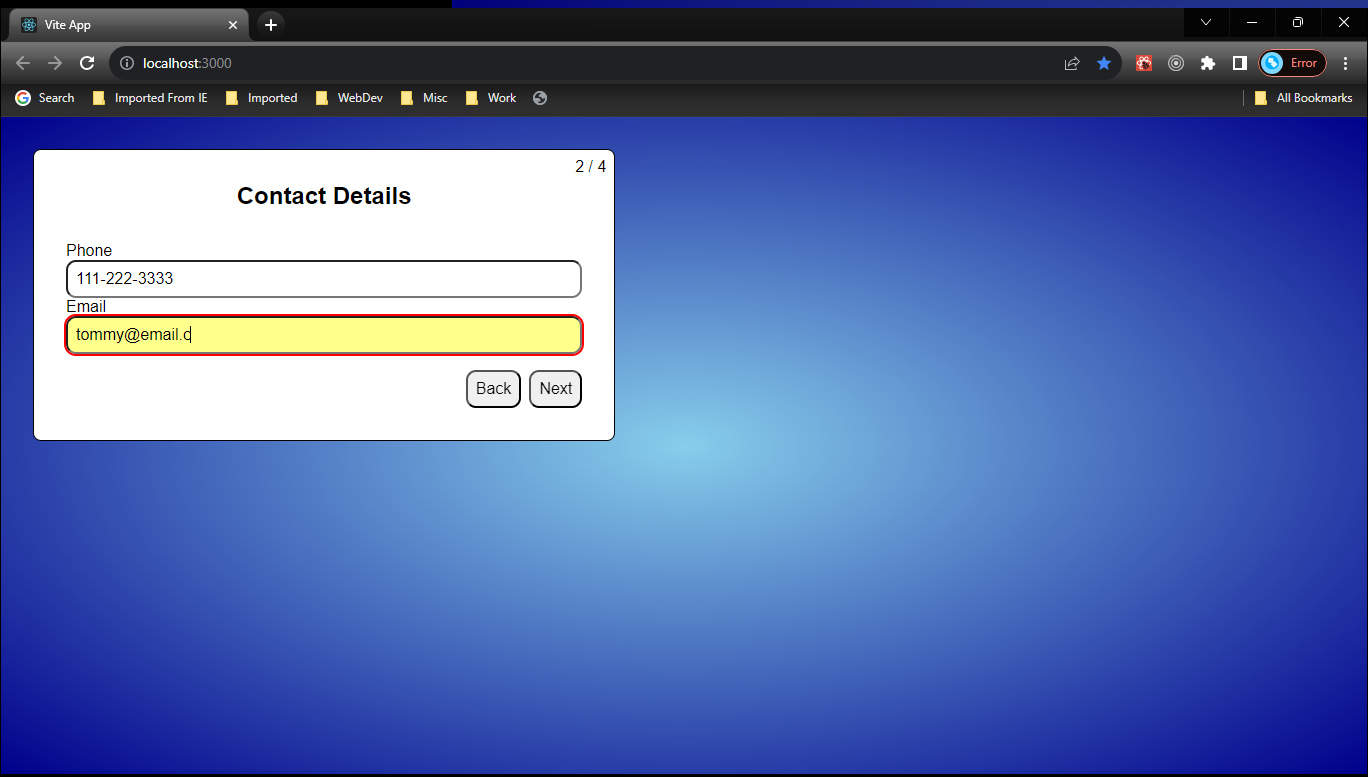
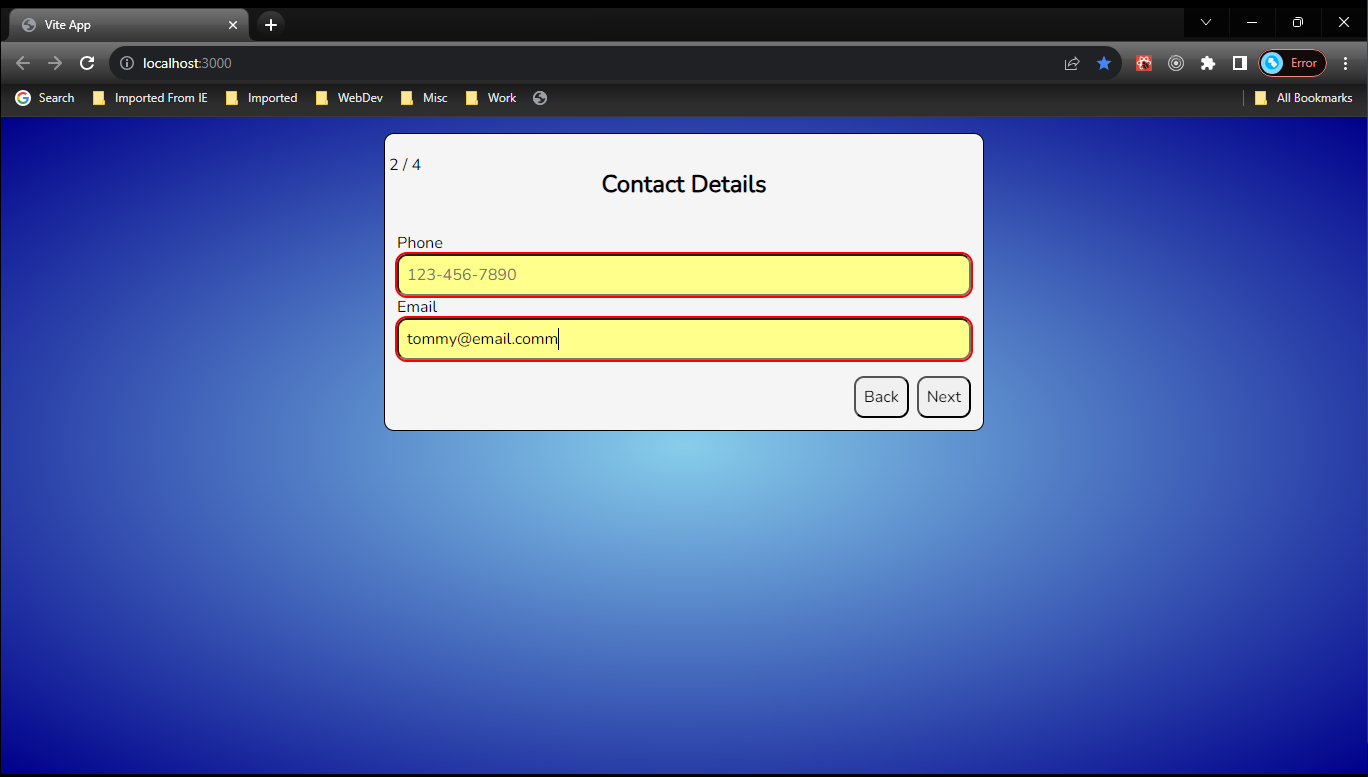
Make improvements to the address and form-wrapper

Changed region(s): [[0.0, 0.1544, 0.7368, 0.5869], [0.3377, 0.0, 1.0, 0.0309], [0.0, 0.0, 0.0307, 0.0618]]

diff --git a/src/AddressForm.tsx b/src/AddressForm.tsx
@@ -40,13 +40,66 @@ export default function AddressForm({
         onChange={e => updateFields({ city: e.target.value })}
       />
       <label>State</label>
-      <input
+      <select
         required
-        type="text"
         value={state}
         onChange={e => updateFields({ state: e.target.value })}
-      />
-      <label>Zip</label>
+      >
+        <option value="AL">Alabama</option>
+        <option value="AK">Alaska</option>
+        <option value="AZ">Arizona</option>
+        <option value="AR">Arkansas</option>
+        <option value="CA">California</option>
+        <option value="CO">Colorado</option>
+        <option value="CT">Connecticut</option>
+        <option value="DE">Delaware</option>
+        <option value="DC">District Of Columbia</option>
+        <option value="FL">Florida</option>
+        <option value="GA">Georgia</option>
+        <option value="HI">Hawaii</option>
+        <option value="ID">Idaho</option>
+        <option value="IL">Illinois</option>
+        <option value="IN">Indiana</option>
+        <option value="IA">Iowa</option>
+        <option value="KS">Kansas</option>
+        <option value="KY">Kentucky</option>
+        <option value="LA">Louisiana</option>
+        <option value="ME">Maine</option>
+        <option value="MD">Maryland</option>
+        <option value="MA">Massachusetts</option>
+        <option value="MI">Michigan</option>
+        <option value="MN">Minnesota</option>
+        <option value="MS">Mississippi</option>
+        <option value="MO">Missouri</option>
+        <option value="MT">Montana</option>
+        <option value="NE">Nebraska</option>
+        <option value="NV">Nevada</option>
+        <option value="NH">New Hampshire</option>
+        <option value="NJ">New Jersey</option>
+        <option value="NM">New Mexico</option>
+        <option value="NY">New York</option>
+        <option value="NC">North Carolina</option>
+        <option value="ND">North Dakota</option>
+        <option value="OH">Ohio</option>
+        <option value="OK">Oklahoma</option>
+        <option value="OR">Oregon</option>
+        <option value="PA">Pennsylvania</option>
+        <option value="RI">Rhode Island</option>
+        <option value="SC">South Carolina</option>
+        <option value="SD">South Dakota</option>
+        <option value="TN">Tennessee</option>
+        <option value="TX">Texas</option>
+        <option value="UT">Utah</option>
+        <option value="VT">Vermont</option>
+        <option value="VA">Virginia</option>
+        <option value="WA">Washington</option>
+        <option value="WV">West Virginia</option>
+        <option value="WI">Wisconsin</option>
+        <option value="WY">Wyoming</option>
+        <option value="Others">Others</option>
+      </select>
+
+      <label>Zipcode</label>
       <input
         required
         type="text"

diff --git a/src/App.tsx b/src/App.tsx
@@ -43,20 +43,9 @@ function App() {
   }
 
   return (
-    <div
-      style={{
-        position: "relative",
-        background: "white",
-        border: "1px solid black",
-        padding: "2rem",
-        margin: "1rem",
-        borderRadius: ".5rem",
-        fontFamily: "Arial",
-        maxWidth: "max-content",
-      }}
-    >
+    <div className="form flex-col">
       <form onSubmit={onSubmit}>
-        <div style={{ position: "absolute", top: ".5rem", right: ".5rem" }}>
+        <div style={{ position: "relative", top: ".5rem", right: ".5rem" }}>
           {currentStepIndex + 1} / {steps.length}
         </div>
         {step}

diff --git a/src/FormWrapper.tsx b/src/FormWrapper.tsx
@@ -12,14 +12,7 @@ export function FormWrapper({ title, children }: FormWrapperProps) {
         {title}
       </h2>
       
-      <div
-        style={{
-          // display: "grid",
-          gap: "1rem .5rem",
-          justifyContent: "flex-start",
-          gridTemplateColumns: "auto minmax(auto, 100px)",
-        }}
-      >
+      <div>
         {children}
       </div>
     </>

diff --git a/README.md b/README.md
@@ -1,30 +1,6 @@
 # React + TypeScript + Vite
 
-This template provides a minimal setup to get React working in Vite with HMR and some ESLint rules.
-
-Currently, two official plugins are available:
-
-- [@vitejs/plugin-react](https://github.com/vitejs/vite-plugin-react/blob/main/packages/plugin-react/README.md) uses [Babel](https://babeljs.io/) for Fast Refresh
-- [@vitejs/plugin-react-swc](https://github.com/vitejs/vite-plugin-react-swc) uses [SWC](https://swc.rs/) for Fast Refresh
-
-## Expanding the ESLint configuration
-
-If you are developing a production application, we recommend updating the configuration to enable type aware lint rules:
-
-- Configure the top-level `parserOptions` property like this:
-
-```js
-   parserOptions: {
-    ecmaVersion: 'latest',
-    sourceType: 'module',
-    project: ['./tsconfig.json', './tsconfig.node.json'],
-    tsconfigRootDir: __dirname,
-   },
-```
-
-- Replace `plugin:@typescript-eslint/recommended` to `plugin:@typescript-eslint/recommended-type-checked` or `plugin:@typescript-eslint/strict-type-checked`
-- Optionally add `plugin:@typescript-eslint/stylistic-type-checked`
-- Install [eslint-plugin-react](https://github.com/jsx-eslint/eslint-plugin-react) and add `plugin:react/recommended` & `plugin:react/jsx-runtime` to the `extends` list
-#
+# React Multi-Step Registration Form
+# Using Form wrapper, custom hook, reg-ex validation, and no libraries
 ### To install: npm install
 ### To run: npm run dev
